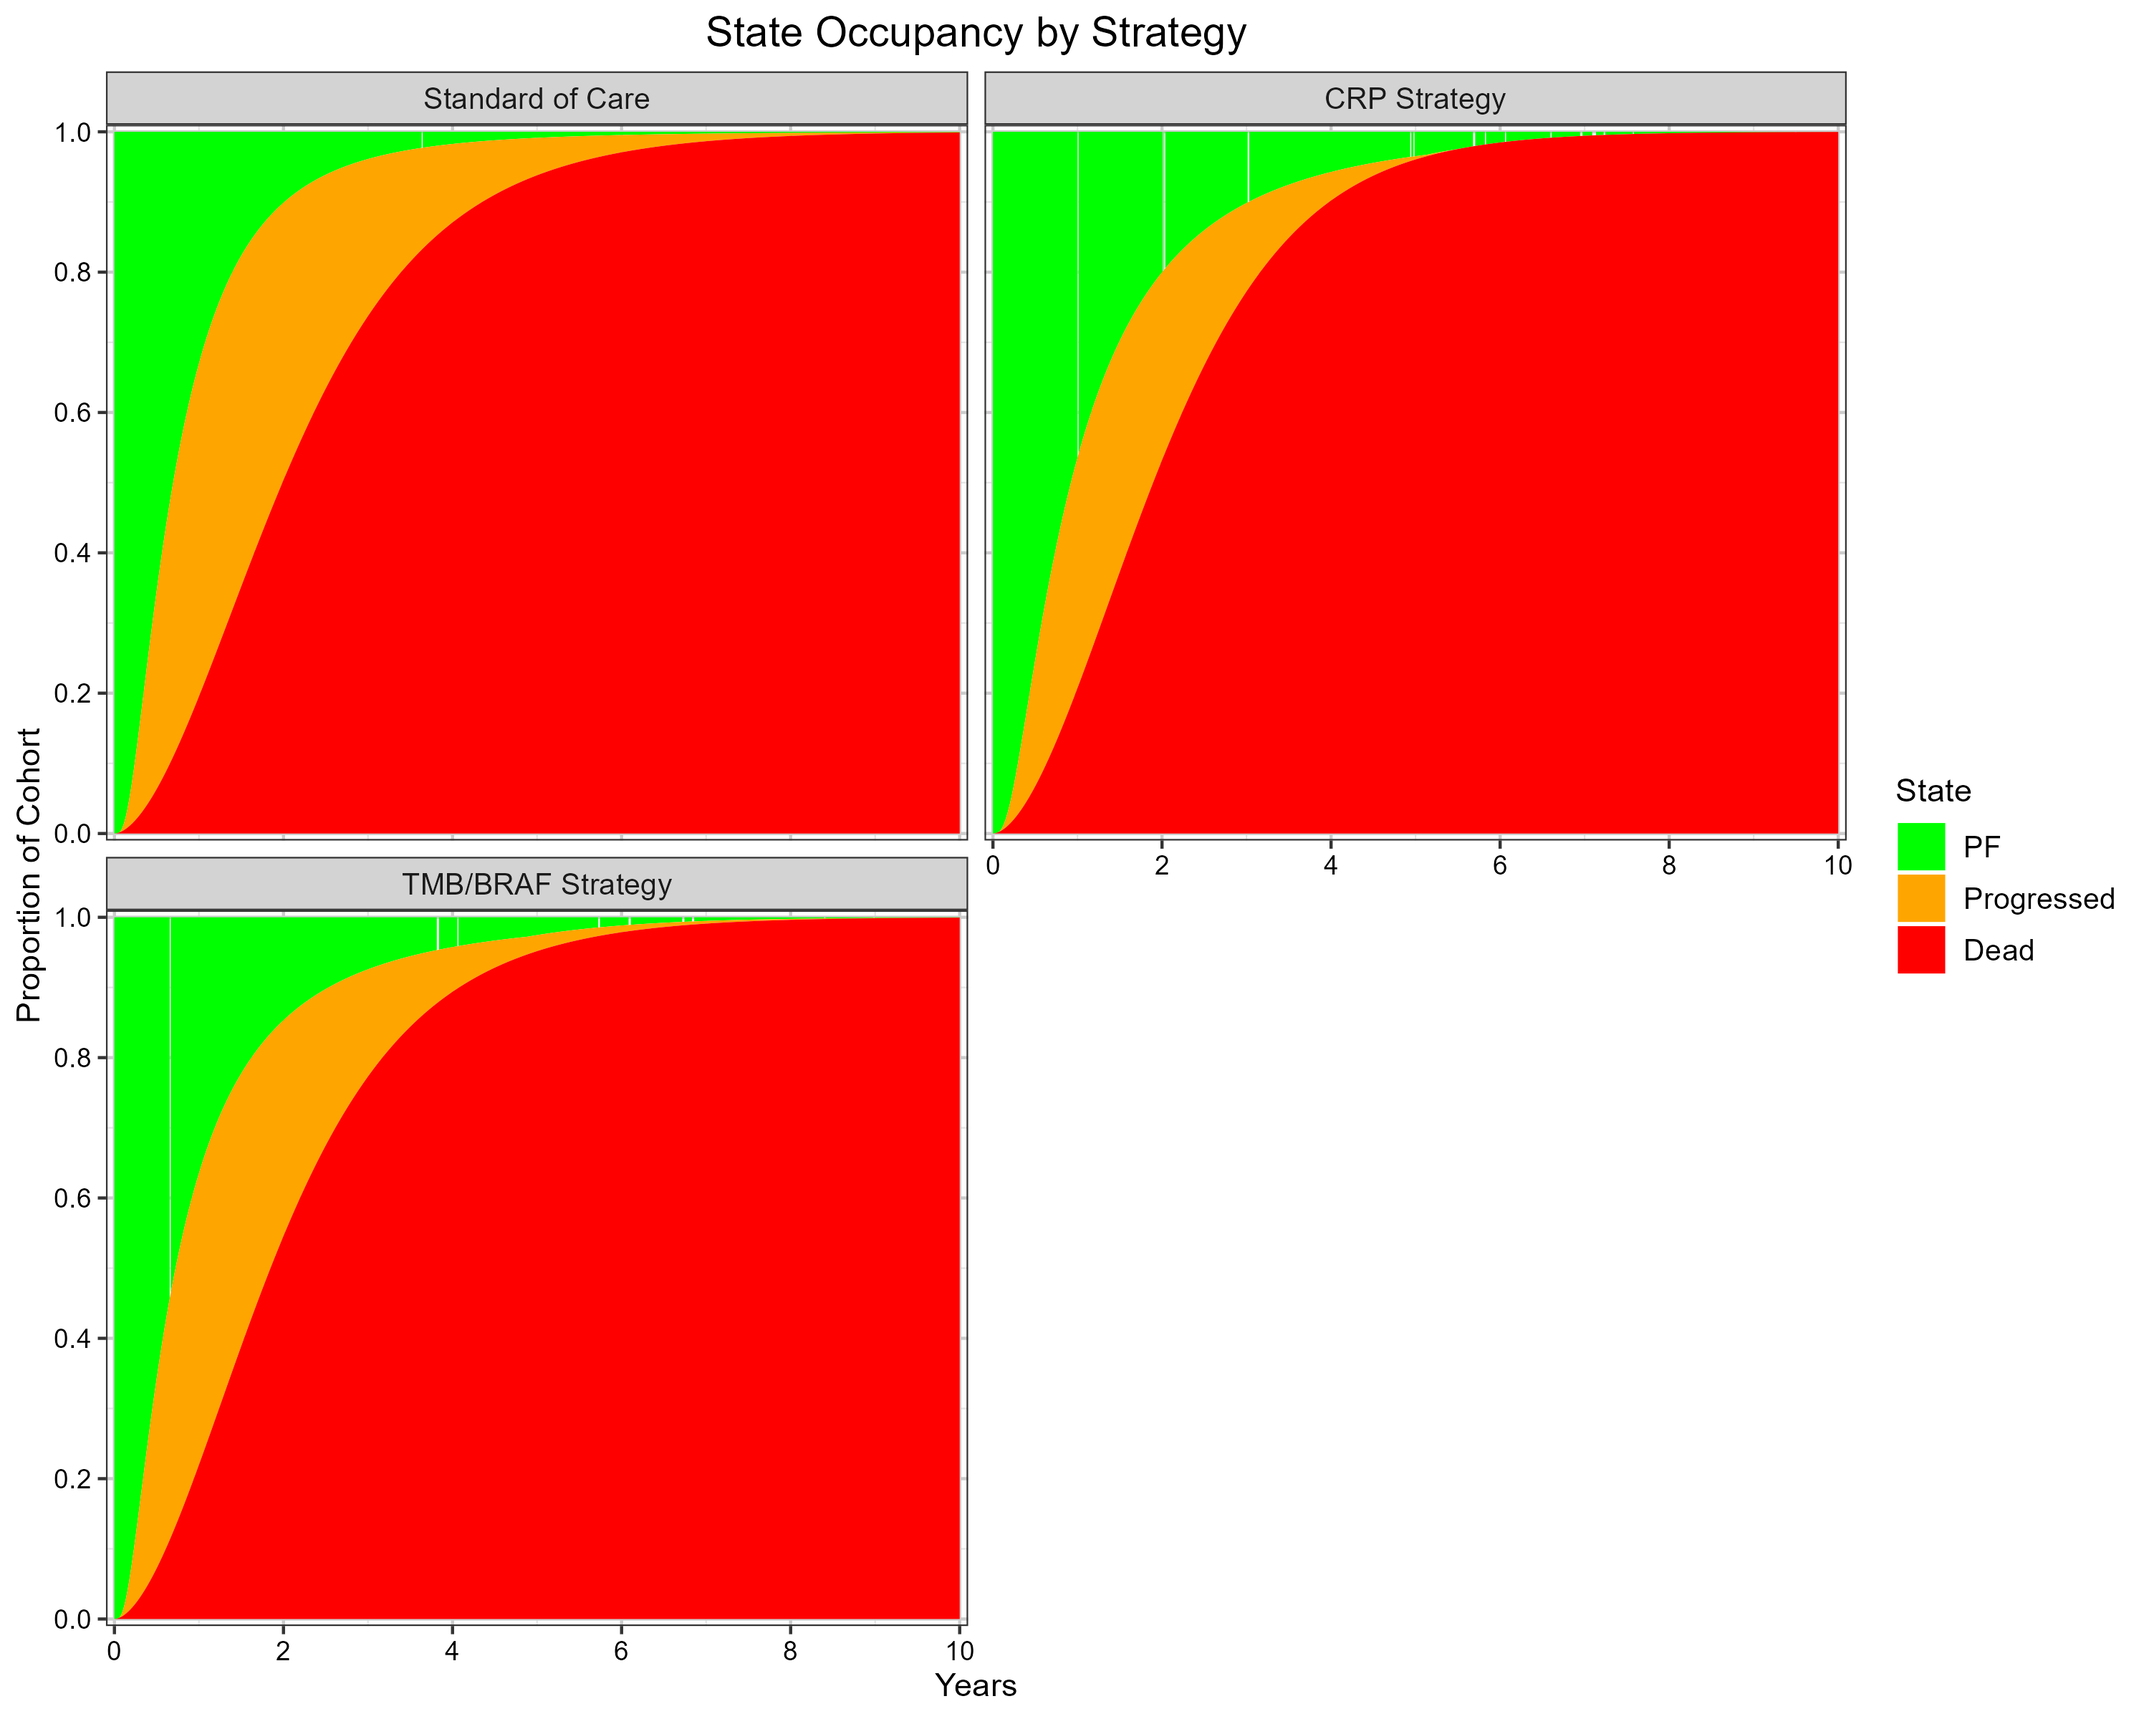
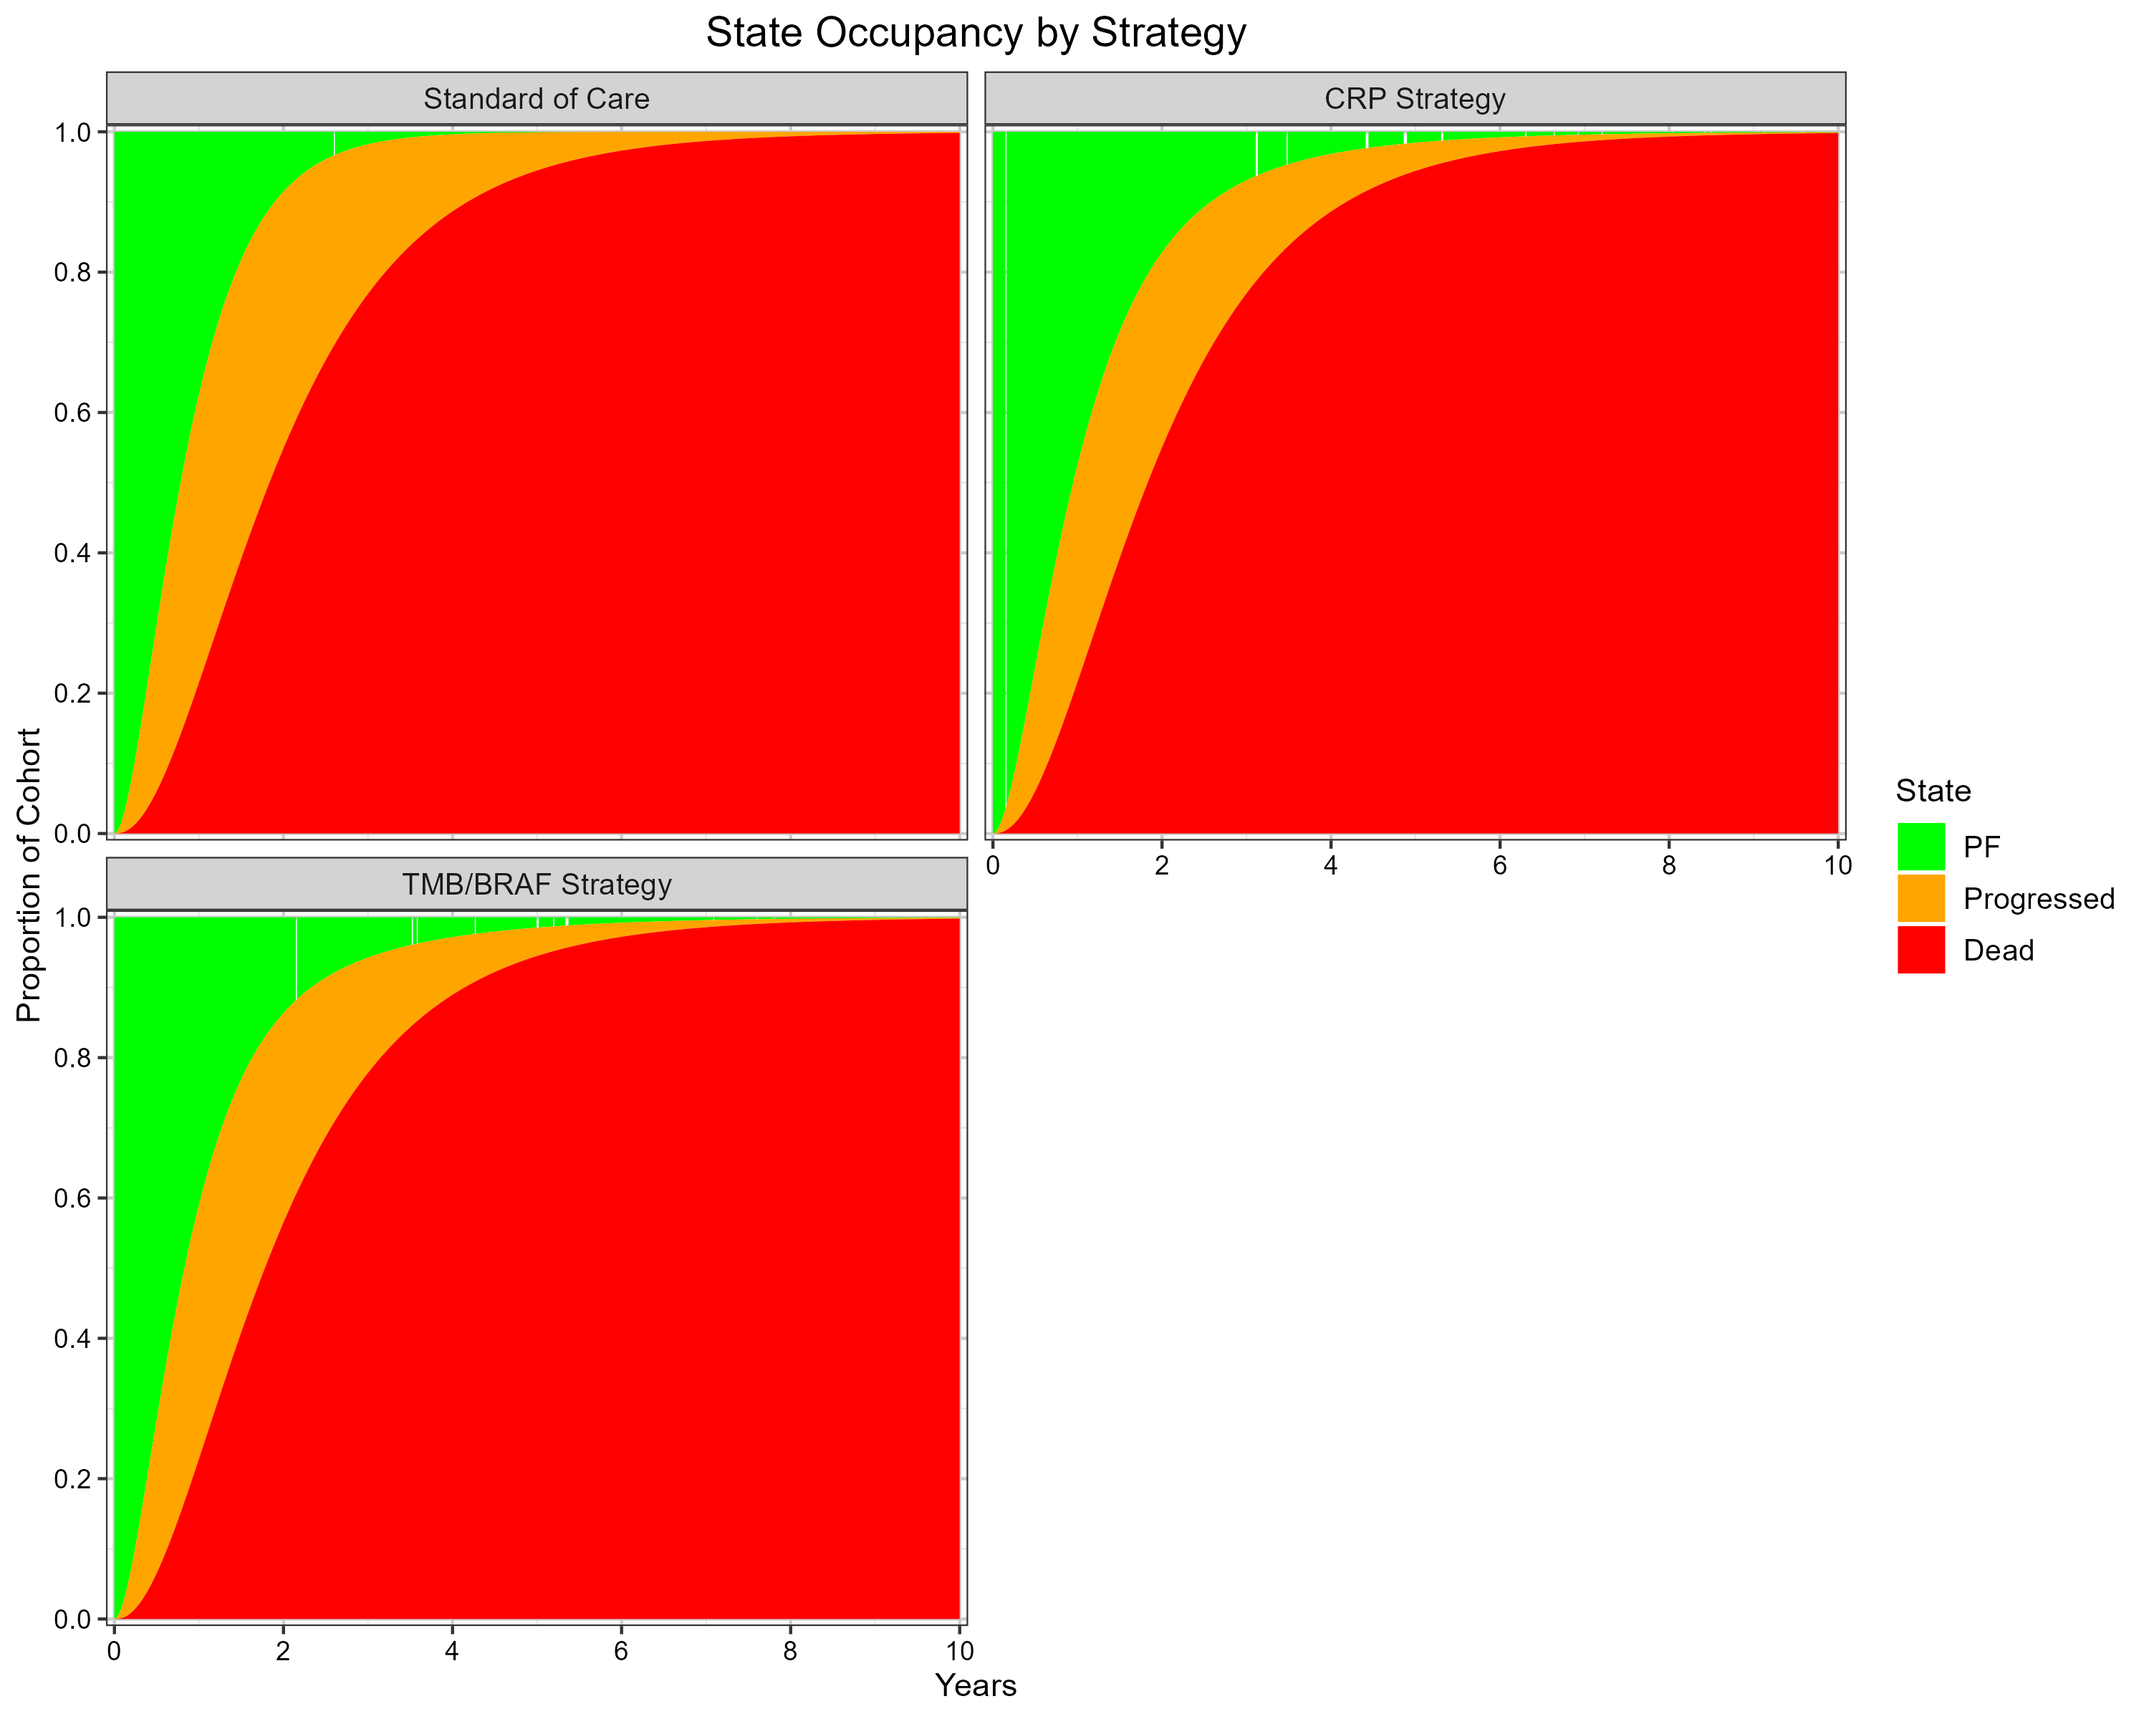
session summary and traces

diff --git a/session_summary.html b/session_summary.html
@@ -1,0 +1,140 @@
+<h1 id="session-summary-adversarial-review-fixes-and-issue-triage">Session summary — adversarial review, fixes, and
+  issue triage</h1>
+<p><strong>Date:</strong> 2026-07-19 to 2026-07-29
+  <strong>Branch:</strong> <code>refactor/simplify-legacy-scaffolding</code> → merged to <code>main</code> via PR #148
+  <strong>Model:</strong> Claude Fable 5
+</p>
+<p>This session began as an adversarial review of the R + QMD codebase (building on the
+  prior Opus/ValidateHE report in <code>report_Opus/</code>) and grew into verifying an existing
+  refactor, fixing three newly found correctness defects, regenerating all caches,
+  opening and merging PR #148, and triaging the open-issue backlog.</p>
+<hr>
+<h2 id="what-we-did">What we did</h2>
+<h3 id="1-verified-the-existing-refactor-issue-146-">1. Verified the existing refactor (issue #146)</h3>
+<p>Re-derived the prior refactor&#39;s fixes (labelled <code>147-A1</code>…<code>A13</code>,
+  <code>B1</code>…<code>B10</code>) against
+  the actual source rather than trusting commit messages. Confirmed the Opus report&#39;s</p>
+<p>#1 &quot;Fail&quot; finding (OS/PFS independent-AIC fitting with no ordering constraint) was
+  genuinely resolved by ordering-constrained joint distribution selection. Confirmed
+  the ~2,989-line reduction (20,202 → 17,213 R + QMD source, excl. archive) and, via
+  snapshot comparison, that it changed <strong>no</strong> result.</p>
+<h3 id="2-fixed-three-correctness-defects-the-review-found-issue-147-">2. Fixed three correctness defects the review
+  found (issue #147)</h3>
+<p>These were missed by both the Opus review and static inspection; they surfaced only
+  when caches were regenerated and reports rendered.</p>
+<ul>
+  <li><strong>A14 (<code>fc4ae5b</code>) — interaction-coefficient extraction returned 0%. CHANGES RESULTS.</strong>
+    <code>extract_interaction_coefficients()</code> matched <code>^crp.*:Rx</code>, but R names the term
+    <code>Rx:crp</code> (<code>RxExperimental arm:crp1</code>). It matched nothing, warned, and continued —
+    so the four <code>b_*_rx_*</code> rows were <em>absent</em> from every EVPPI table, not zero. Fixed to
+    match structurally (order-agnostic). Result: EVPPI table went <strong>20 → 26 rows</strong>, and
+    <strong><code>b_tmb_braf_rx_pfs</code> now carries 41.2% of total EVPI</strong> — the second-largest
+    parameter after <code>u_np</code>, previously invisible. Pre-existing defect, not an A13
+    regression.
+  </li>
+  <li><strong>A15 (<code>95cdaf0</code>) — <code>scenario_effect.qmd</code> could not render.</strong> It compared the
+    cache
+    <code>failed_draw_policy</code> against a stale string literal instead of calling
+    <code>psa_failed_draw_policy()</code>; it rejected every fresh cache. Now calls the accessor.
+  </li>
+  <li><strong>A7 (<code>1bb4d53</code>) — enriched-population path silently clamped OS ≥ PFS.</strong> Replaced the
+    silent <code>pmin(pfs, os)</code> with a labelled assertion matching <code>model_fun</code>. Latent
+    (0 violations under gamma/gamma), <strong>no result change</strong>.</li>
+</ul>
+<h3 id="3-fixed-the-discount-cycle-length-hardcode-issue-82-">3. Fixed the discount-cycle-length hardcode (issue #82)
+</h3>
+<ul>
+  <li><strong>A17 (<code>d2663a4</code>)</strong> — <code>discount_weights()</code> computed years as <code>/ 52</code>,
+    silently
+    assuming weekly cycles. Now takes <code>cl</code> explicitly and uses <code>* cl</code>. Verified the
+    deterministic base case is <strong>exactly</strong> unchanged (<code>max |dCost| = 0</code>,
+    <code>max |dEff| = 0</code>);
+    <code>x/52</code> vs <code>x*(1/52)</code> differ at ~1e-16 but cancel in the aggregated sums, so no cache
+    regeneration was needed.
+  </li>
+</ul>
+<h3 id="4-added-regression-tests-12-14-test-files-">4. Added regression tests (12 → 14 test files)</h3>
+<ul>
+  <li><code>test_interaction_coefficient_extraction.R</code>, <code>test_enriched_survival_ordering.R</code>,
+    <code>test_report_contracts.R</code> (A16, 163 checks covering the report/cache contracts that
+    A14/A15 slipped through), and <code>test_discount_weights_cycle_length.R</code>.
+  </li>
+  <li>Every new test was <strong>mutation-verified</strong>: reverting the corresponding fix makes it
+    fail with a message naming the fix.</li>
+</ul>
+<h3 id="5-regenerated-all-caches-from-corrected-code">5. Regenerated all caches from corrected code</h3>
+<p>Sampling (5000 models, 5 benign singular-matrix failures now correctly substituted),
+  PSA, EVPPI, and scenario EVPPI. PSA diagnostics confirmed the A1–A4 robustness work is
+  live: <strong>fallback 5/5000, all replaced, 0 dropped</strong>. Deleted 537 MB of orphaned
+  Model-A/B/C caches (<code>*_focused</code>/<code>*_joint</code>/<code>*_separate</code>).</p>
+<h3 id="6-snapshots-and-the-bug-fix-impact-report">6. Snapshots and the bug-fix impact report</h3>
+<ul>
+  <li>Corrected the <code>#147</code> baseline snapshot&#39;s stale <code>issue_number</code> metadata (146 → 147),
+    preserving its honest <code>git_commit</code> provenance and byte-identical results.</li>
+  <li>Rewrote <code>bug_fix_impact.qmd</code> to compare every baseline/fixed snapshot pair plus a
+    cumulative row; rendered to PDF <strong>and</strong> HTML and tracked both (with a scoped
+    <code>.gitignore</code> negation for the PDF, since the repo otherwise ignores rendered reports).
+  </li>
+</ul>
+<h3 id="7-pr-148-created-structured-merged">7. PR #148 — created, structured, merged</h3>
+<p>One PR splitting <strong>refactor (#146, no result change)</strong> from <strong>correctness fixes
+    (#147, one changes results)</strong>, with a commit-label key decoding the <code>147-*</code> tags, the
+  snapshot-delta tables, and the poster flagged as knowingly-failing. Rewrote both issue
+  bodies to match the split. Merged to <code>main</code>.</p>
+<h3 id="8-issue-triage-9-issues-closed">8. Issue triage — 9 issues closed</h3>
+<ul>
+  <li><strong>Closed by PR #148:</strong> #146, #147, plus #55, #50, #59 (verified already fixed by the
+    branch, <code>main</code> vs <code>HEAD</code> diff), and #82 (fixed in A17).</li>
+  <li><strong>#101</strong> (P0, &quot;3 models in para_models&quot;) closed as <strong>superseded</strong> — it asks
+    for the
+    Model A/B/C design #146 retired.</li>
+  <li><strong>8 more closed as already-resolved-in-main</strong>, each with a code-evidence comment:
+    #15, #51, #52, #53, #54, #57, #61, #63.</li>
+</ul>
+<hr>
+<h2 id="what-we-did-not-do">What we did NOT do</h2>
+<h3 id="left-failing-open-by-deliberate-decision">Left failing / open by deliberate decision</h3>
+<ul>
+  <li><strong><code>poster_biomarker_correlation.qmd</code> — left intentionally failing.</strong> It hard-codes a
+    weibull-OS/lognormal-PFS pair that violates OS ≥ PFS at <strong>251 of 521 time points</strong>
+    (the original WB-001 defect). <code>model_fun</code> now refuses it rather than clamping.
+    Fixing it means porting <code>curve_draw()</code> to the gamma/gamma pair, which changes the
+    poster&#39;s published numbers — a stats decision left to the author.</li>
+  <li><strong>Issue #145 — left open.</strong> Its code fixes are already in <code>main</code>; its bug #1 (OS/PFS
+    clamp) still has the poster instance above. Deliberately excluded from PR #148.</li>
+  <li><strong>Issue #124 — left open, needs a spec rewrite, not implementation.</strong> Its figure spec
+    references retired Model A/B/C panels; the underlying figures exist but the spec is
+    stale against the single-model design.</li>
+</ul>
+<h3 id="flagged-for-the-author-s-judgement-not-changed">Flagged for the author&#39;s judgement, not changed</h3>
+<ul>
+  <li><strong>Treatment-schedule week indexing</strong> (issue #49 / &quot;A12&quot;): schedules are hard-coded to
+    a 520-week horizon, and the week-vs-cycle indexing (weeks 4,6,12… vs the documented
+    5,7,13…) needs resolving against the trial protocol.</li>
+  <li><strong>12-vs-13-week schedules</strong>: CT every 12 weeks vs follow-up every 13 — may be two
+    legitimate schedules; not assumed a bug.</li>
+  <li><strong>Monitoring without visits</strong> after week 39; and the manuscript EVPPI section, which
+    now needs reading against the new <code>b_tmb_braf_rx_pfs</code> = 41.2% result.</li>
+</ul>
+<h3 id="open-issues-not-addressed-14-remain-">Open issues not addressed (14 remain)</h3>
+<ul>
+  <li><strong>Code:</strong> #36 (P1 — visit costs from Eline&#39;s DRG weights; would change results;
+    blocked on the DRG numbers), #60 (OS[1]==1 not asserted), #56 (CV values
+    undocumented), #49, #58 (identity comparisons remain), #66, #16, #6, #137 (kNN EVPPI
+    unvalidated against <code>voi</code>/<code>BCEA</code> — more relevant now that A14 made interaction EVPPI
+    real).</li>
+  <li><strong>Clinical/research:</strong> #29, #31 (Norwegian EQ-5D tariffs), #33, #34.</li>
+</ul>
+<hr>
+<h2 id="key-results-and-caveats">Key results and caveats</h2>
+<ul>
+  <li><strong>Deterministic base case unchanged throughout:</strong> control €21,055.79 / 1.3498 QALY,
+    CRP €53,790.65 / 1.3886, TMB/BRAF €63,235.05 / 1.3514. CRP ICER €843,973/QALY.</li>
+  <li><strong>The one result that moved (A14):</strong> the EVPPI/value-of-information table now includes
+    the treatment-by-biomarker interactions; <code>b_tmb_braf_rx_pfs</code> at 41.2% of EVPI was
+    absent from all prior results and <strong>should be reviewed before entering the manuscript.</strong></li>
+  <li><strong>PSA means shifted slightly</strong> (control −€99/−0.0047 QALY, CRP −€65/−0.0027,
+    TMB/BRAF −€155/−0.0072) — the expected fingerprint of the sampling/seeding/replacement
+    fixes touching only the stochastic layer.</li>
+  <li><strong>14/14 focused tests pass.</strong></li>
+</ul>
